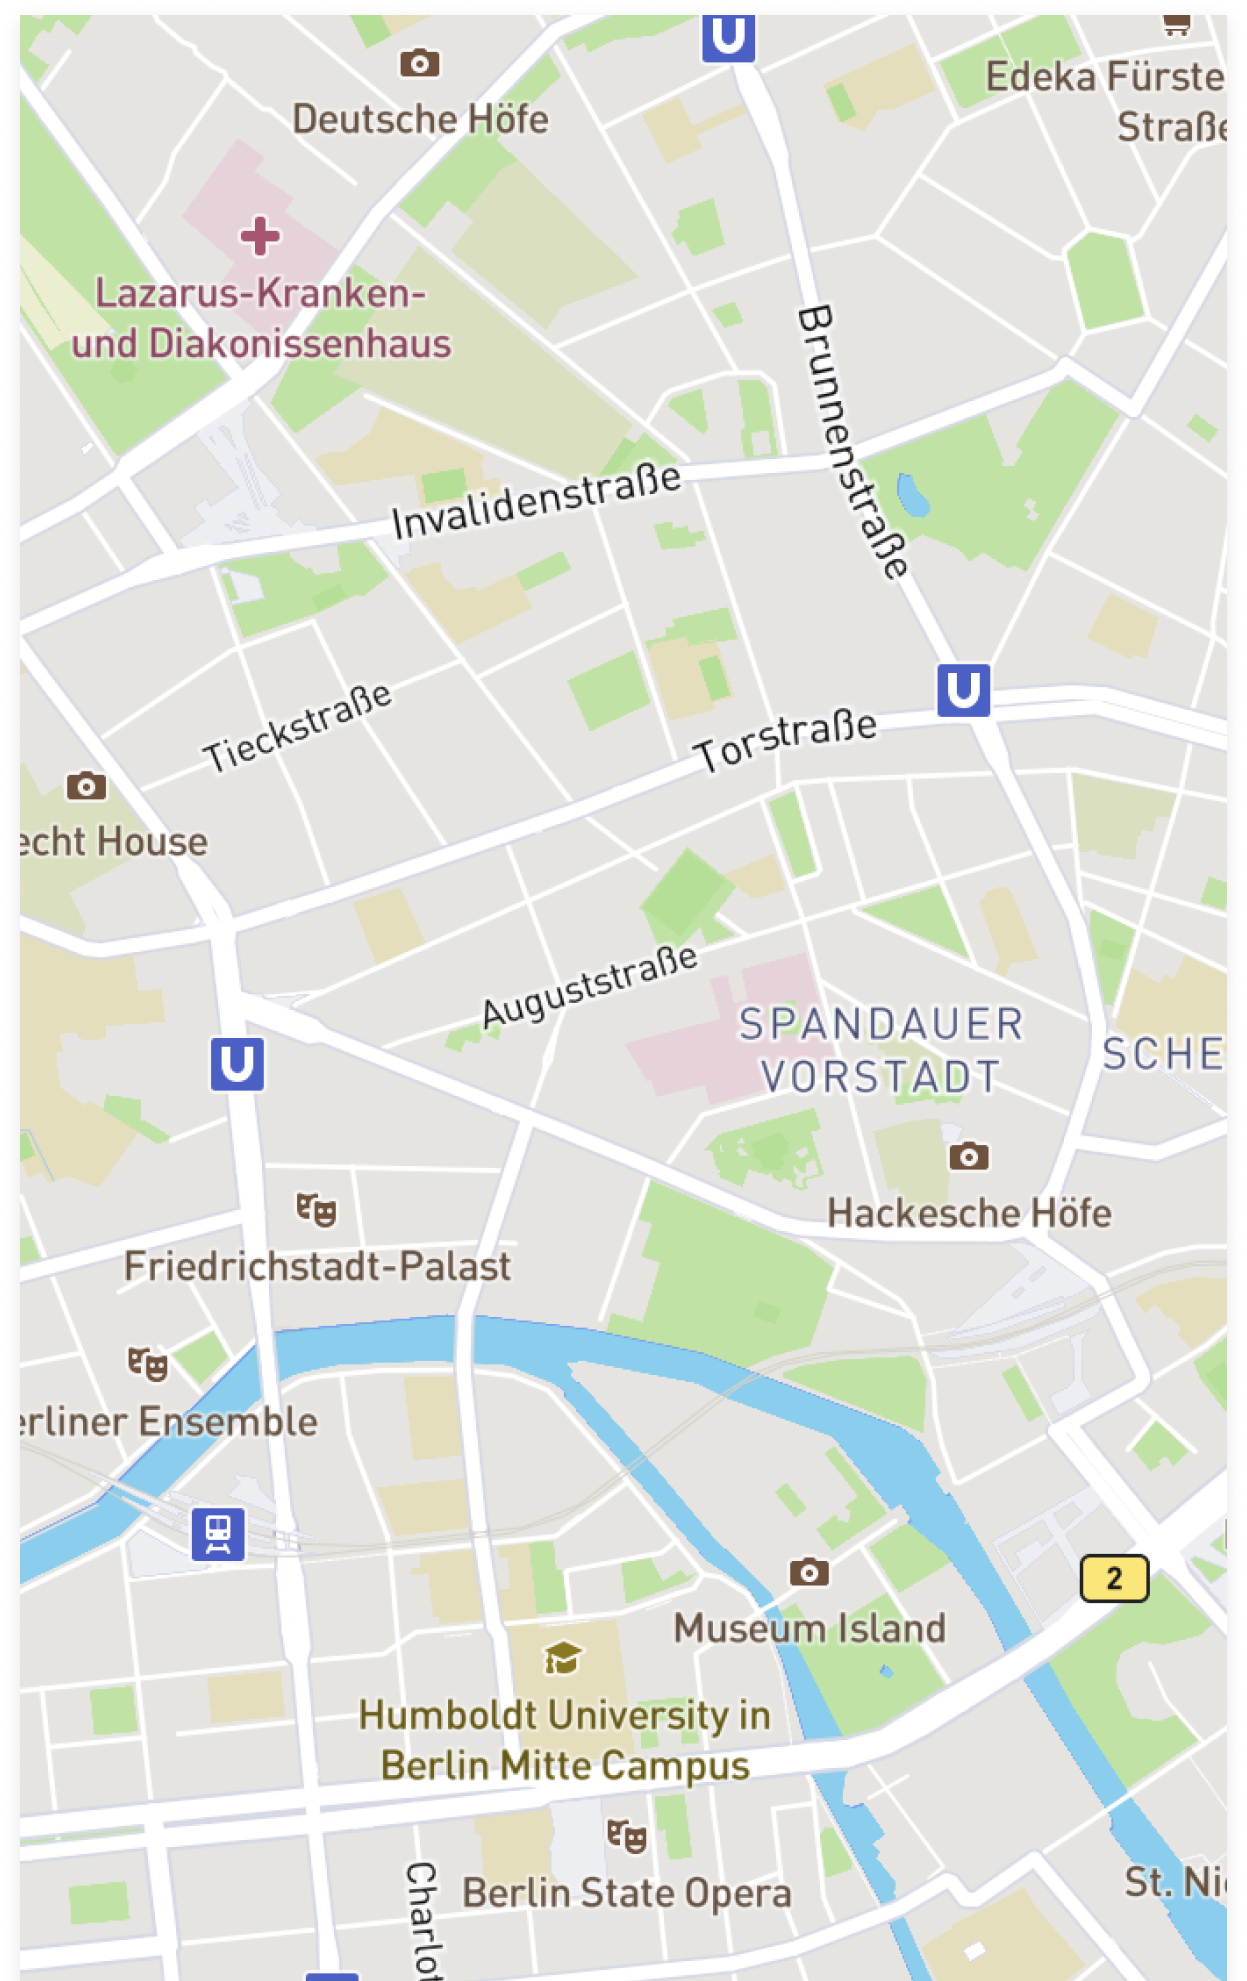
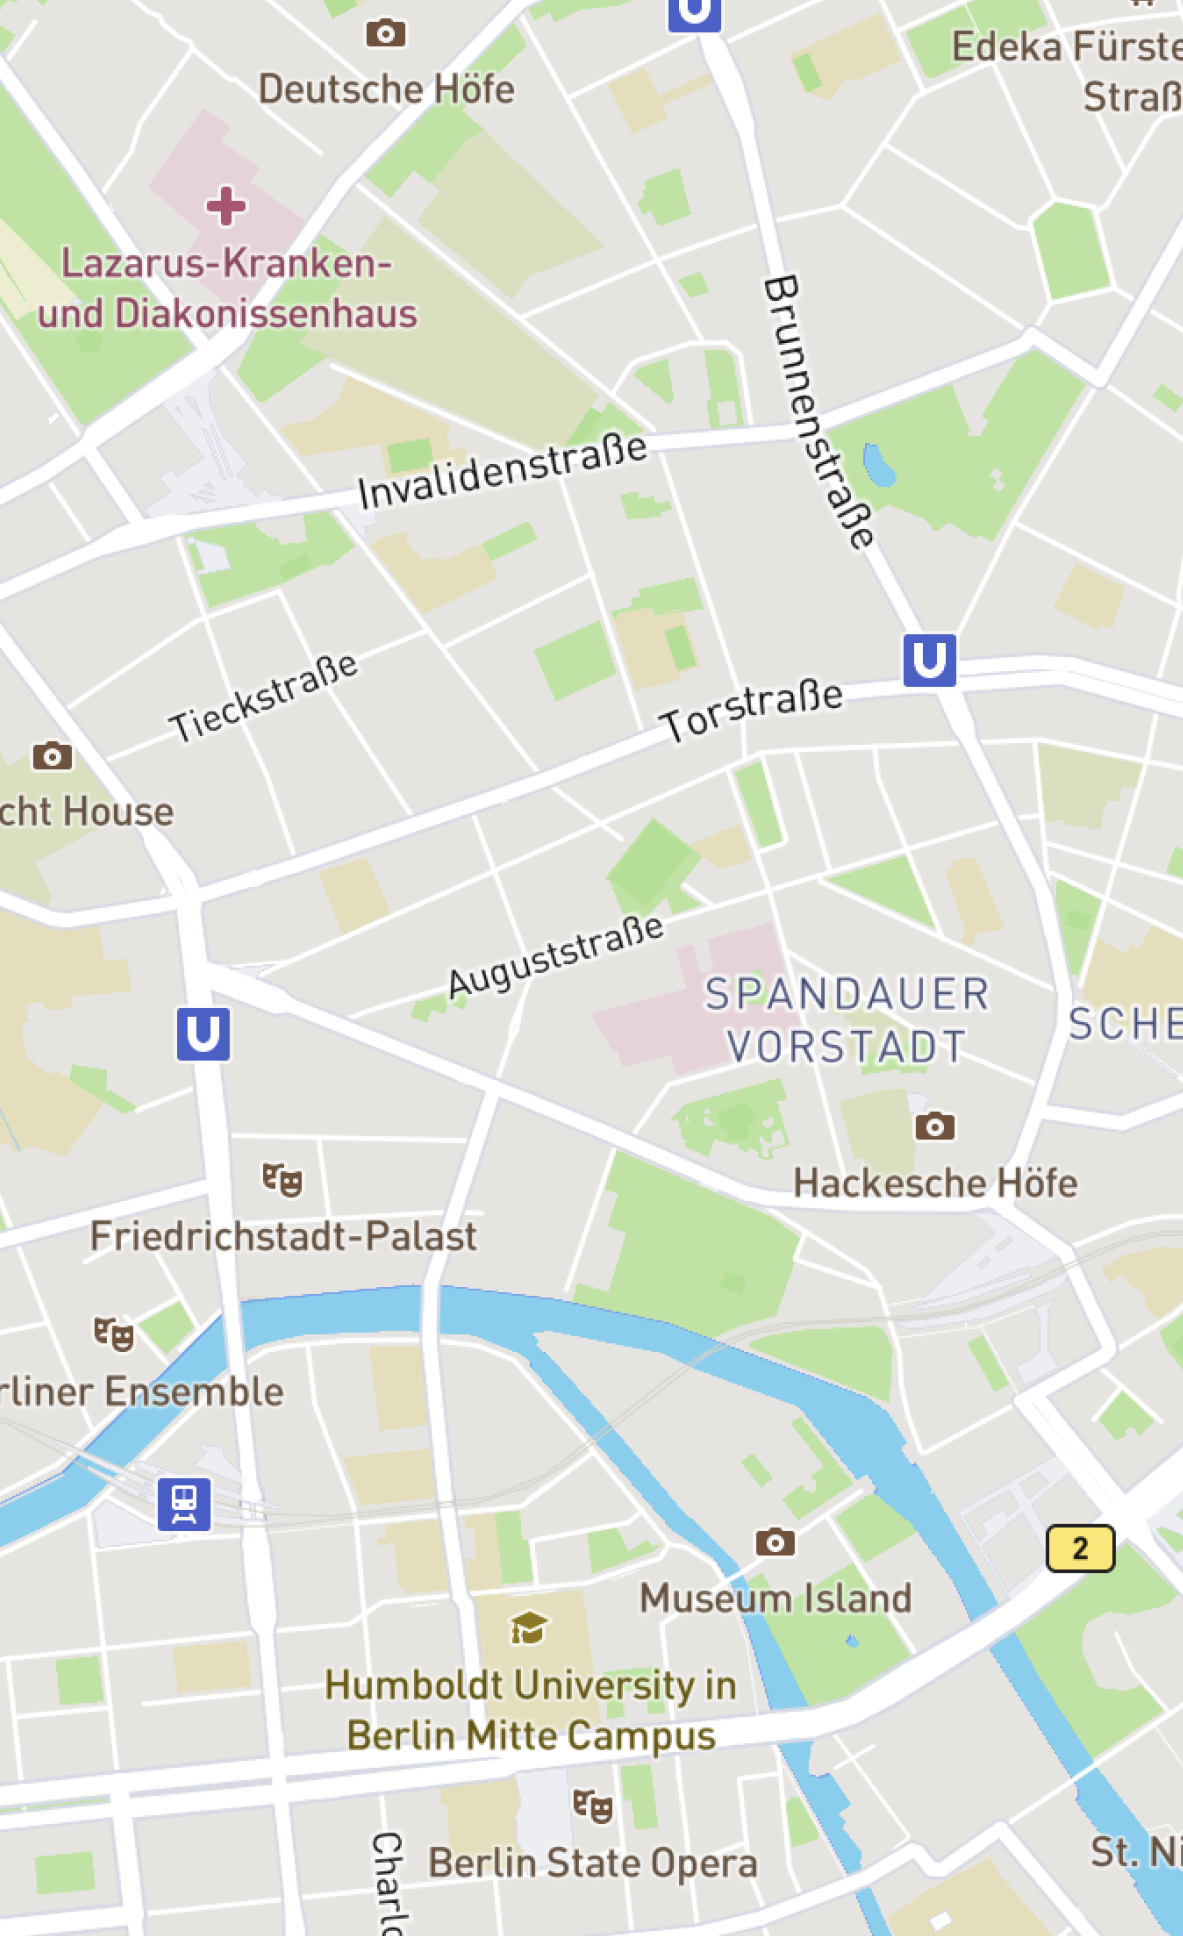
show page

diff --git a/app/assets/stylesheets/components/_card_demo_show.scss b/app/assets/stylesheets/components/_card_demo_show.scss
@@ -1,98 +1,119 @@
-.card-demo-show-title {
-  position: absolute;
-  width: 90%;
-  height: 186px;
-  left: 20px;
-  top: 85px;
-  background: linear-gradient(0deg, #FFFFFF 27.69%, rgba(255, 255, 255, 0) 76.27%), url(map.png) center bottom no-repeat;
-  box-shadow: 0px 5px 20px rgba(0, 0, 0, 0.1);
-  border-radius: 24px;
-
-  .card-demo-show-title-content {
-  width: 226px;
-  height: 38px;
-  left: 38px;
-  top: 211px;
-  }
-}
-
-.demo-title {
-  padding-top: 125px;
-  padding-left: 20px;
-}
-
 .card-demo-show-banner {
   width: 100%;
   height: 185px;
   left: 0px;
   top: 0px;
   background: linear-gradient(180deg, rgba(50, 110, 205, 0.5) 0%, rgba(130, 149, 151, 0.5) 59.38%, rgba(255, 234, 169, 0.5) 100%), url(banner_demo.jpg) center top no-repeat;
-
+  background-size: cover;
 }
 
-.card-demo-action {
-  overflow: hidden;
-//  background: red;
-  width: 100%;
-  height: 120px;
-  margin-top: 90px;
-  margin-bottom: 30px;
-  border-radius: 5px;
-  margin-left: 15px;
-}
-
-.card-demo-btns {
+.card-demo-show-title {
   position: absolute;
-//  background: green;
-  font-family: Roboto;
-  font-style: normal;
-  font-weight: normal;
-  font-size: 14px;
-  line-height: 16px;
-  display: flex;
-  align-items: center;
-  position: relative;
-  padding-bottom: 15px;
-  margin: 20px auto;
+  width: 90%;
+  height: 186px;
+  left: 20px;
+  top: 80px;
+  background: linear-gradient(0deg, #FFFFFF 27.69%, rgba(255, 255, 255, 0) 76.27%), url(map.png) center bottom no-repeat;
+  box-shadow: 0px 5px 20px rgba(0, 0, 0, 0.1);
+  border-radius: 24px;
+  background-size: 100%;
 }
 
-.card-demo-btns > p  {
-  margin-left: 20px;
-}
 
-.card-demo-action-address {
-  width: 315px;
-  left: 182px;
-  top: 277px;
-
-  font-family: Roboto;
-  font-style: normal;
-  font-weight: normal;
-  font-size: 14px;
-  line-height: 16px;
-  letter-spacing: -0.333333px;
-
-  color: #777777;
-}
-
-.card-demo-description {
-  padding-left: 4px;
-}
-
-.card-demo-description > p {
-  font-family: Roboto;
-  font-style: normal;
-  font-weight: normal;
-  font-size: 14px;
-  line-height: 16px;
-  letter-spacing: -0.333333px;
-}
-
-.card-demo-description > h3 {
-  font-family: Roboto;
-  font-style: normal;
-  font-weight: bold;
+.card-demo-show-title-content {
+  position: absolute;
   font-size: 24px;
-  line-height: 28px;
-  letter-spacing: -0.333333px;
+  font-weight: bold;
+  width: 70%;
+  line-height: 1.2em;
+  left: 18px;
+  bottom: 12px;
 }
+
+.card-demo-show-container {
+  position: relative;
+  top: 86px;
+  padding: 0 23px;
+  z-index: 1;
+}
+
+.card-demo-symbols {
+  display: flex;
+  padding: 12px 0 30px 0;
+  align-items: center;
+}
+
+
+.card-demo-show-smalltext p {
+  color: #777777;
+  line-height: 1.3em;
+  font-size: 14px;
+}
+
+
+// .card-demo-action {
+//   overflow: hidden;
+// //  background: red;
+//   width: 100%;
+//   height: 120px;
+//   margin-top: 90px;
+//   margin-bottom: 30px;
+//   border-radius: 5px;
+//   margin-left: 15px;
+// }
+
+// .card-demo-btns {
+//   position: absolute;
+// //  background: green;
+//   font-family: Roboto;
+//   font-style: normal;
+//   font-weight: normal;
+//   font-size: 14px;
+//   line-height: 16px;
+//   display: flex;
+//   align-items: center;
+//   position: relative;
+//   padding-bottom: 15px;
+//   margin: 20px auto;
+// }
+
+// .card-demo-btns > p  {
+//   margin-left: 20px;
+// }
+
+// .card-demo-action-address {
+//   width: 315px;
+//   left: 182px;
+//   top: 277px;
+
+//   font-family: Roboto;
+//   font-style: normal;
+//   font-weight: normal;
+//   font-size: 14px;
+//   line-height: 16px;
+//   letter-spacing: -0.333333px;
+
+//   color: #777777;
+// }
+
+// .card-demo-description {
+//   padding-left: 4px;
+// }
+
+// .card-demo-description > p {
+//   font-family: Roboto;
+//   font-style: normal;
+//   font-weight: normal;
+//   font-size: 14px;
+//   line-height: 16px;
+//   letter-spacing: -0.333333px;
+// }
+
+// .card-demo-description > h3 {
+//   font-family: Roboto;
+//   font-style: normal;
+//   font-weight: bold;
+//   font-size: 24px;
+//   line-height: 28px;
+//   letter-spacing: -0.333333px;
+// }

diff --git a/app/assets/stylesheets/components/_button.scss b/app/assets/stylesheets/components/_button.scss
@@ -3,3 +3,45 @@
   width:105px;
   height:51px;
 }
+
+
+.btn-go {
+  position: absolute;
+  display: block;
+  text-align: center;
+  line-height: 52px;
+  border-radius: 50%;
+  width: 55px;
+  height: 55px;
+  bottom: 15px;
+  right: 15px;
+  background: #326ECD;
+  color: white;
+}
+
+
+.btn-share {
+  display: block;
+  text-align: center;
+  line-height: 52px;
+  border-radius: 50%;
+  width: 55px;
+  height: 55px;
+  background: #B3B3B3;
+  color: white;
+  margin-right: 20px;
+}
+
+
+.btn-demo-chatter {
+  filter: invert(100%);
+  display: block;
+  text-align: center;
+  line-height: 52px;
+  border-radius: 50%;
+  width: 55px;
+  height: 55px;
+  background: #0056ca;
+  color: white;
+  margin-right: 20px;
+}

diff --git a/app/assets/stylesheets/components/_card_demo_index.scss b/app/assets/stylesheets/components/_card_demo_index.scss
@@ -64,11 +64,9 @@
   text-align: center;
   letter-spacing: -0.333333px;
   padding-top: 5px;
+  padding-left: 3px;
 
-  width: 99.22px;
   height: 29px;
-  left: 32.8px;
-  top: 180px;
 }
 
 
@@ -77,26 +75,6 @@
   align-items: center;
 }
 
-.card-comment-infos-content-details {
-  position: absolute;
-  width: 184px;
-  height: 57px;
-  left: 160px;
-  top: 130px;
-
-  font-family: Roboto;
-  font-style: normal;
-  font-weight: bold;
+.card-demo-infos-content-details h2 {
   font-size: 24px;
-  line-height: 28px;
-  display: flex;
-  align-items: center;
-  letter-spacing: -0.333333px;
-
-  color: #000000;
-
-  h2 {
-  font-weight: 700;
-  }
-
 }

diff --git a/db/seeds.rb b/db/seeds.rb
@@ -41,6 +41,7 @@ demo = Demo.create!(description:'Lorem Ipsum  ', name:'Mondays for future', user
 demo2 = Demo.create!(description:'Lorem Ipsum  ', name:"You can't eat money!", user: user, start_time: (Date.today + 12))
 demo3 = Demo.create!(description:'Lorem Ipsum  ', name:'Critical Mass', user: user, start_time: (Date.today + 1))
 demo4 = Demo.create!(description:'Lorem Ipsum  ', name:'Mondays for future', user: user, start_time: (Date.today + 5))
+demo5 = Demo.create!(description:'Lorem Ipsum  ', name:'Female Future', user: user, start_time: (Date.today + 5))
 
 event_type1 = EventType.create!(name: 'sit-in', icon: 'sit-in.svg')
 event_type2 = EventType.create!(name: 'speech', icon: 'share.svg')
